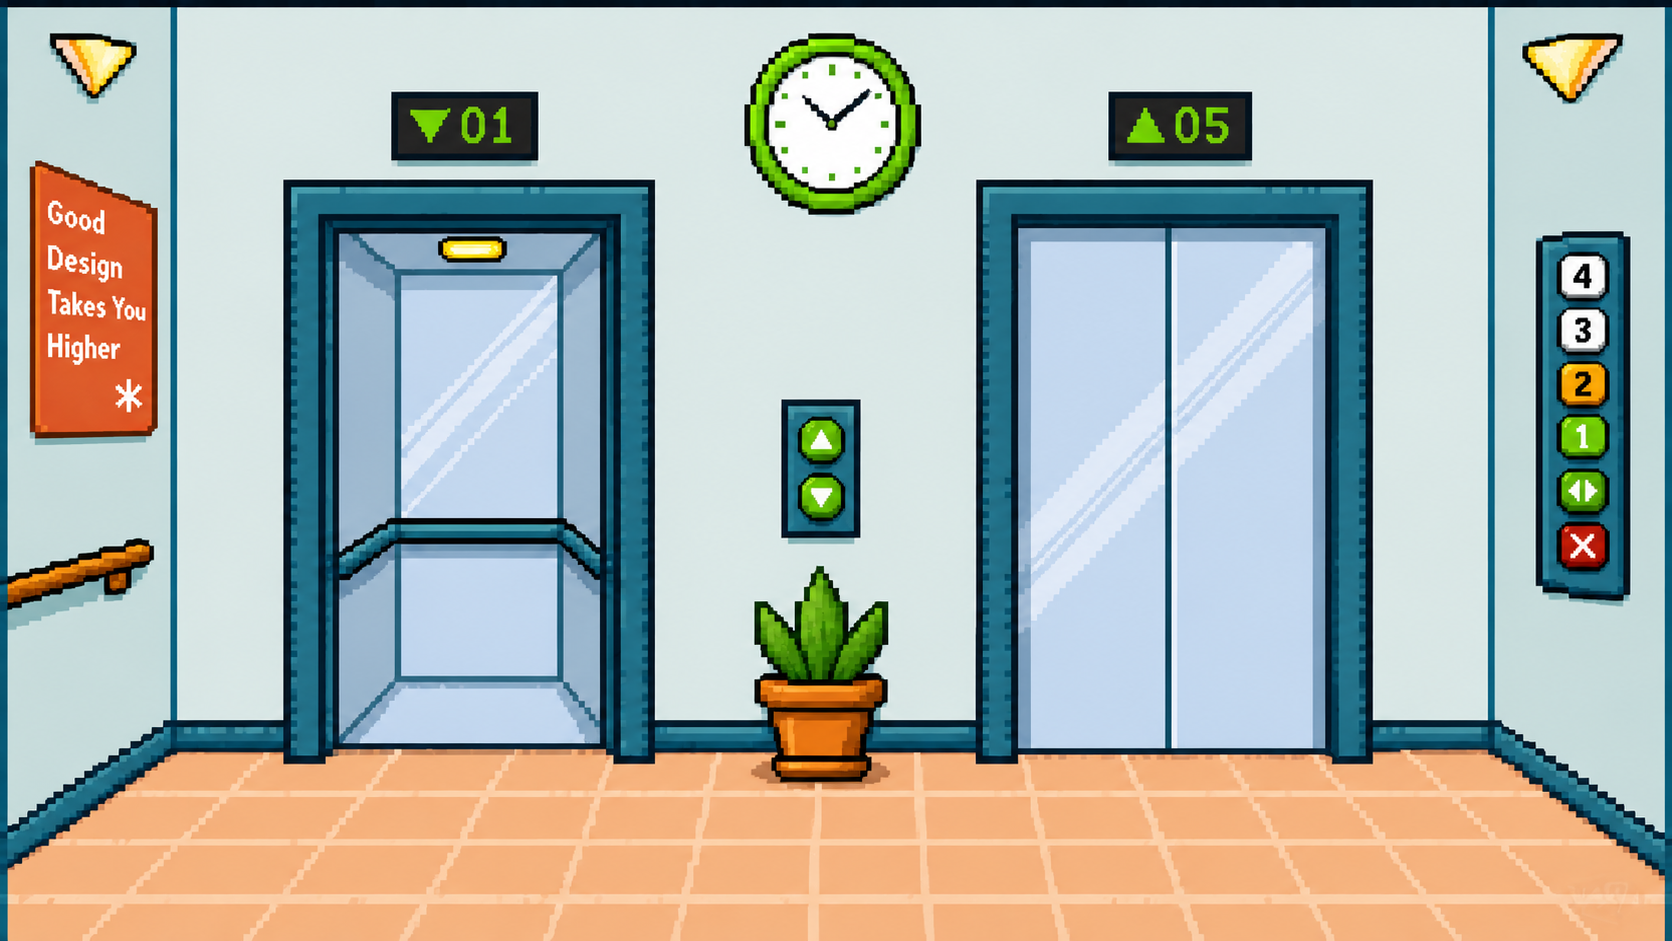
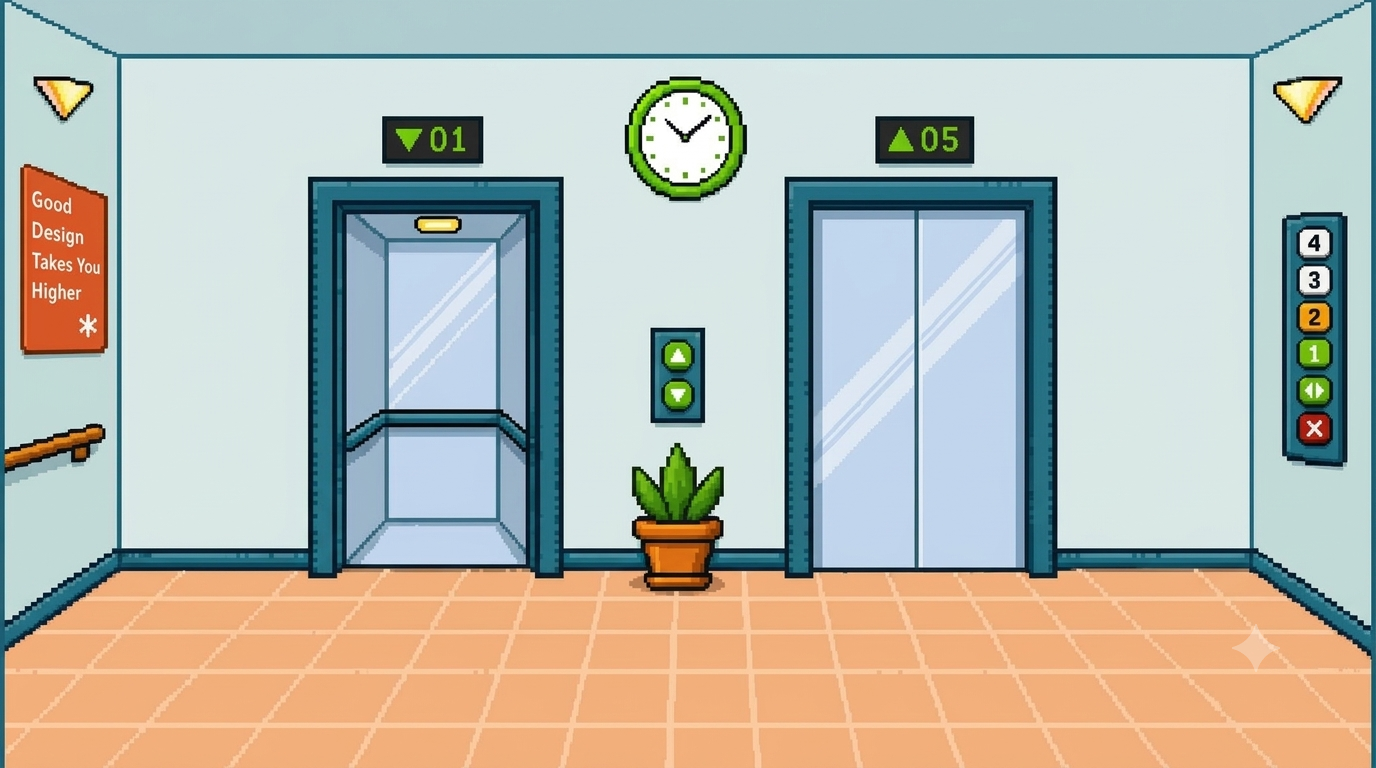
done

diff --git a/css/style.css b/css/style.css
@@ -980,34 +980,23 @@ figure.mock {
     color: #fff
 }
 
-.ending-handoff,
-.ending-achievement-screen {
+.ending-screen {
     position: absolute;
     inset: 0;
     z-index: 8;
-    display: flex;
-    flex-direction: column;
-    align-items: center;
-    justify-content: flex-end;
+    pointer-events: none;
+    overflow: hidden
+}
+
+.ending-screen .content_area {
+    position: absolute;
+    inset: 0;
+    z-index: 2;
     pointer-events: none
 }
 
-.ending-handoff img {
-    width: min(520px, 58vw);
-    height: auto;
-    max-height: 72vh;
-    object-fit: contain;
-    image-rendering: pixelated
-}
-
-.ending-handoff .go {
-    pointer-events: auto;
-    margin-bottom: 20px
-}
-
-.ending-achievement-screen {
-    justify-content: flex-end;
-    overflow: hidden
+.ending-screen .content_area > * {
+    pointer-events: auto
 }
 
 .ending-overlay {
@@ -1017,9 +1006,52 @@ figure.mock {
     z-index: 0
 }
 
-.ending-achievement-screen > img {
+.ending-achievement-screen .ending-overlay{
+    backdrop-filter: blur(8px);
+}
+
+.ending-handoff .handoff_img {
+    position: absolute;
+    left: 50%;
+    bottom: 0;
+    transform: translateX(-50%);
+    margin: 0;
+    z-index: 1
+}
+
+.ending-handoff .handoff_img img {
+    display: block;
+    width: min(520px, 58vw);
+    height: auto;
+    max-height: 72vh;
+    object-fit: contain;
+    image-rendering: pixelated
+}
+
+.ending-handoff .go {
+    position: absolute;
+    right: 24px;
+    bottom: 22px;
+    z-index: 3;
+    margin: 0
+}
+
+.ending-achievement-screen {
+    pointer-events: none
+}
+
+.ending-achievement-screen .achievement {
+    position: absolute;
+    left: 50%;
+    bottom: 0;
+    transform: translateX(-50%);
+    margin: 0;
+    z-index: 1
+}
+
+.ending-achievement-screen .achievement img {
+    display: block;
     position: relative;
-    z-index: 1;
     width: min(270px, 34vw);
     height: auto;
     object-fit: contain;
@@ -1038,7 +1070,8 @@ figure.mock {
     align-items: center;
     gap: 10px;
     color: #fff;
-    z-index: 2
+    z-index: 3;
+    pointer-events: auto
 }
 
 .ending-achievement-copy .title {

diff --git a/index.html b/index.html
@@ -324,18 +324,26 @@
                 seamless way to discover and buy from you.</div>
             <figure class="mock"><img src="images/mock-laptop.png" width="130" height="130" alt="New Website"><figcaption>New Website</figcaption></figure><button class="go" data-next="27">Next</button>
         </template><template data-screen="27">
-            <div data-ending-content class="ending-handoff">
-                <img src="images/ending-handoff.png" width="520" height="420" alt="Founder and Riya exchanging a visiting card">
-                <button class="go" data-next="28">Next</button>
+            <div data-ending-content class="ending-screen ending-handoff">
+                <div class="ending-overlay"></div>
+                                <div class="content_area">
+                                    <figure class="handoff_img"><img src="images/ending-handoff.png" width="520" height="420" alt="Founder and Riya exchanging a visiting card"></figure>
+                                    <button class="go" data-next="28">Next</button>
+
+                </div>
             </div>
         </template><template data-screen="28">
-            <div data-ending-content class="ending-achievement-screen">
+            <div data-ending-content class="ending-screen ending-achievement-screen">
                 <div class="ending-overlay"></div>
-                <img src="images/character-1.png" width="270" height="410" alt="Founder celebrating">
+                <div class="content_area">
+
                 <div class="ending-achievement-copy">
                     <div class="title">Game Over!</div>
                     <img class="completion-stars" src="images/stars.png" width="110" height="42" alt="Achievement stars">
                     <button class="go" data-action="restart">Play Again</button>
+                </div>
+                <figure class="achievement"><img src="images/achievement.png" width="270" height="410" alt="Founder celebrating"></figure>
+
                 </div>
             </div>
         </template>
